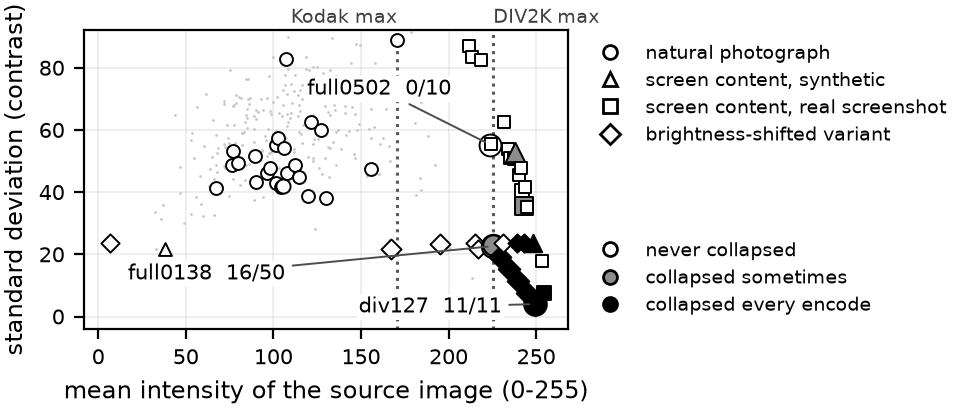
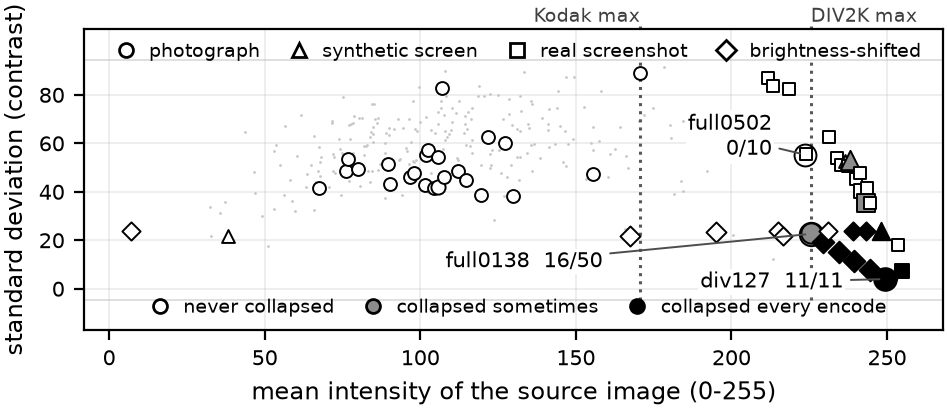
Figure 2: full-width axes with legends in strips inside the frame

diff --git a/src/plot_trigger_map.py b/src/plot_trigger_map.py
@@ -138,7 +138,7 @@ def main() -> None:
     stats = image_stats()
     agg = collect(stats)
 
-    fig, ax = plt.subplots(figsize=(5.05, 2.24))  # drawn at print size (4.8 in wide after the tight bbox)
+    fig, ax = plt.subplots(figsize=(4.95, 2.25))  # drawn at print size (4.74 in wide after the tight bbox)
 
     # Background: the natural-image cloud, so the reader can see where photographs live.
     bg = []
@@ -151,9 +151,12 @@ def main() -> None:
     # Brightest FULL image of each benchmark. The DIV2K mark lands on full0138, which collapses.
     # Labels sit above the axes so that no marker can cover them.
     for x, txt, ha in ((170.5, "Kodak max", "right"), (225.5, "DIV2K max", "left")):
-        ax.axvline(x, color="0.35", linestyle=":", linewidth=1.1, zorder=2)
+        ax.axvline(x, ymin=(-4.5 + 17) / 124, ymax=(94.5 + 17) / 124, color="0.35", linestyle=":", linewidth=1.1, zorder=2)
         ax.text(x, 1.01, txt, transform=ax.get_xaxis_transform(), va="bottom", ha=ha,
                 fontsize=7, color="0.25")
+        # a short dotted tick above the frame ties the label to its line, which stops below the legend
+        ax.plot([x, x], [1.0, 1.012], transform=ax.get_xaxis_transform(), clip_on=False, ls=":",
+                lw=1.1, color="0.35")
     seen_kinds = set()
     for (mean, std, kind, name), flags in sorted(agg.items()):
         n, k = len(flags), sum(flags)
@@ -166,11 +169,12 @@ def main() -> None:
         seen_kinds.add(kind)
 
     # The two photographs that separate brightness from contrast.
-    for name, xy, ha in (("full0138", (-75, -12), "right"), ("full0502", (-14, 18), "right"),
-                         ("div127", (-12, -3), "right")):
+    for name, xy, ha in (("full0138", (-75, -12), "right"), ("full0502", (-12, 0), "right"),
+                         ("div127", (-15, -3), "right")):
         for (mean, std, kind, nm), flags in agg.items():
             if nm == name:
-                ax.annotate(f"{name}  {sum(flags)}/{len(flags)}", (mean, std),
+                sep = "\n" if name == "full0502" else "  "          # two lines keep full0502 off the Kodak line
+                ax.annotate(f"{name}{sep}{sum(flags)}/{len(flags)}", (mean, std),
                             textcoords="offset points", xytext=xy, ha=ha, fontsize=7.5,
                             bbox=dict(boxstyle="square,pad=0.1", fc="white", ec="none"),
                             arrowprops=dict(arrowstyle="-", lw=0.7, color="0.3"))
@@ -186,13 +190,23 @@ def main() -> None:
                           markeredgecolor="black", markersize=5, label=l)
                    for f, l in (("white", "never collapsed"), ("0.55", "collapsed sometimes"),
                                 ("black", "collapsed every encode"))]
-    ax.set_xlim(-8, 268); ax.set_ylim(-4, 92)
-    # Both legends sit outside the axes, to the right, so that they cover no data.
-    first = ax.legend(handles=shape_legend, loc="upper left", bbox_to_anchor=(1.02, 1.0),
-                      fontsize=7, frameon=False, borderpad=0.2, labelspacing=0.4)
+    # Legends sit in two strips that the axes reserve above and below the data (std 0..92), so
+    # that the plot keeps the full width and no legend covers a marker or a background dot.
+    ax.set_xlim(-8, 268); ax.set_ylim(-17, 107); ax.set_yticks([0, 20, 40, 60, 80])
+    for y in (-4.5, 94.5):
+        ax.axhline(y, color="0.85", linewidth=0.6, zorder=0)
+    short = {"natural photograph": "photograph", "screen content, synthetic": "synthetic screen",
+             "screen content, real screenshot": "real screenshot",
+             "brightness-shifted variant": "brightness-shifted"}
+    for h in shape_legend:
+        h.set_label(short.get(h.get_label(), h.get_label()))
+    for h, l in zip(fill_legend, ("never collapsed", "collapsed sometimes", "collapsed every encode")):
+        h.set_label(l)
+    first = ax.legend(handles=shape_legend, loc="upper center", ncol=4, fontsize=7, frameon=False,
+                      borderpad=0.15, handletextpad=0.2, columnspacing=1.0)
     ax.add_artist(first)
-    ax.legend(handles=fill_legend, loc="lower left", bbox_to_anchor=(1.02, 0.0), fontsize=7,
-              frameon=False, borderpad=0.2, labelspacing=0.4)
+    ax.legend(handles=fill_legend, loc="lower center", ncol=3, fontsize=7, frameon=False,
+              borderpad=0.15, handletextpad=0.2, columnspacing=1.0)
 
     fig.tight_layout()
     OUT_PDF.parent.mkdir(exist_ok=True)
